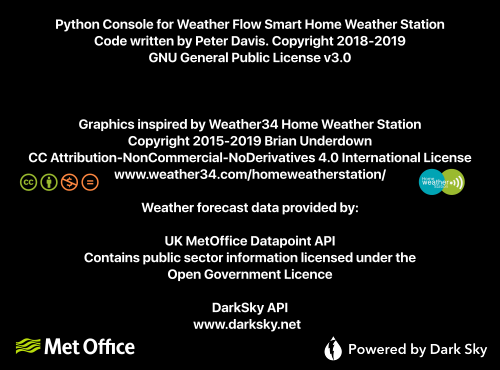
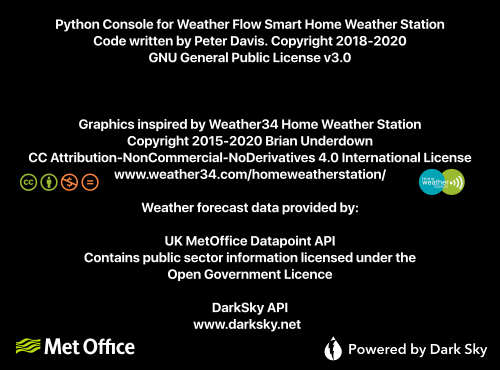
Updated copyright/license statement

Changed region(s): [[0.24, 0.3568, 0.75, 0.4162], [0.18, 0.0892, 0.81, 0.1486]]

diff --git a/lib/system.py b/lib/system.py
@@ -1,5 +1,5 @@
 """ Contains system functions required by the Raspberry Pi Python console for 
-Weather Flow Smart Home Weather Stations. Copyright (C) 2018-2019 Peter Davis
+Weather Flow Smart Home Weather Stations. Copyright (C) 2018-2020 Peter Davis
 
 This program is free software: you can redistribute it and/or modify it under
 the terms of the GNU General Public License as published by the Free Software

diff --git a/lib/websocket.py b/lib/websocket.py
@@ -1,5 +1,5 @@
 """ Handles Websocket messages recieved by the Raspberry Pi Python console for
-eather Flow Smart Home Weather Stations. Copyright (C) 2018-2019  Peter Davis
+eather Flow Smart Home Weather Stations. Copyright (C) 2018-2020  Peter Davis
 
 This program is free software: you can redistribute it and/or modify it under
 the terms of the GNU General Public License as published by the Free Software

diff --git a/lib/forecast.py b/lib/forecast.py
@@ -1,6 +1,6 @@
 """ Returns the UK MetOffice or DarkSky forecast variables required by the 
 Raspberry Pi Python console for Weather Flow Smart Home Weather Stations. 
-Copyright (C) 2018-2019 Peter Davis
+Copyright (C) 2018-2020 Peter Davis
 
 This program is free software: you can redistribute it and/or modify it under
 the terms of the GNU General Public License as published by the Free Software

diff --git a/lib/observationFormat.py b/lib/observationFormat.py
@@ -1,6 +1,6 @@
 """ Formats and sets the required units of observations displayed on the 
 Raspberry Pi Python console for Weather Flow Smart Home Weather Stations. 
-Copyright (C) 2018-2019  Peter Davis
+Copyright (C) 2018-2020  Peter Davis
 
 This program is free software: you can redistribute it and/or modify it under
 the terms of the GNU General Public License as published by the Free Software

diff --git a/lib/config.py b/lib/config.py
@@ -1,6 +1,6 @@
 """ Defines the configuration .ini files required by the Raspberry Pi Python
 console for Weather Flow Smart Home Weather Stations.
-Copyright (C) 2018-2019  Peter Davis
+Copyright (C) 2018-2020  Peter Davis
 
 This program is free software: you can redistribute it and/or modify it under
 the terms of the GNU General Public License as published by the Free Software

diff --git a/main.py b/main.py
@@ -1,5 +1,5 @@
 # WeatherFlow PiConsole: Raspberry Pi Python console for WeatherFlow Smart Home
-# Weather Station. Copyright (C) 2018-2019 Peter Davis
+# Weather Station. Copyright (C) 2018-2020 Peter Davis
 
 # This program is free software: you can redistribute it and/or modify it under
 # the terms of the GNU General Public License as published by the Free Software

diff --git a/lib/sager.py b/lib/sager.py
@@ -1,5 +1,5 @@
 """ Returns The Sager Weathercaster forecast required by the Raspberry Pi Python
-console for Weather Flow Smart Home Weather Stations. Copyright (C) 2018-2019  
+console for Weather Flow Smart Home Weather Stations. Copyright (C) 2018-2020  
 Peter Davis
 
 This program is free software: you can redistribute it and/or modify it under

diff --git a/lib/settings.py b/lib/settings.py
@@ -1,5 +1,5 @@
 """ Defines the settings screen JSON object required by the Raspberry Pi Python
-console for Weather Flow Smart Home Weather Stations. Copyright (C) 2018-2019  
+console for Weather Flow Smart Home Weather Stations. Copyright (C) 2018-2020  
 Peter Davis
 
 This program is free software: you can redistribute it and/or modify it under

diff --git a/lib/derivedVariables.py b/lib/derivedVariables.py
@@ -1,5 +1,5 @@
 """ Returns the derived weather variables required by the Raspberry Pi Python 
-console for Weather Flow Smart Home Weather Stations. Copyright (C) 2018-2019  
+console for Weather Flow Smart Home Weather Stations. Copyright (C) 2018-2020 
 Peter Davis
 
 This program is free software: you can redistribute it and/or modify it under

diff --git a/lib/requestAPI/forecast.py b/lib/requestAPI/forecast.py
@@ -1,5 +1,5 @@
 """ Returns MetOffice/DarkSky API requests required by the Raspberry Pi Python 
-console for Weather Flow Smart Home Weather Stations. Copyright (C) 2018-2019 
+console for Weather Flow Smart Home Weather Stations. Copyright (C) 2018-2020 
 Peter Davis
 
 This program is free software: you can redistribute it and/or modify it under

diff --git a/lib/astronomical.py b/lib/astronomical.py
@@ -1,5 +1,5 @@
 """ Returns the astronomical variables required by the Raspberry Pi Python 
-console for Weather Flow Smart Home Weather Stations. Copyright (C) 2018-2019  
+console for Weather Flow Smart Home Weather Stations. Copyright (C) 2018-2020  
 Peter Davis
 
 This program is free software: you can redistribute it and/or modify it under

diff --git a/lib/requestAPI/weatherflow.py b/lib/requestAPI/weatherflow.py
@@ -1,5 +1,5 @@
 """ Returns WeatherFlow API requests required by the Raspberry Pi Python console 
-for Weather Flow Smart Home Weather Stations. Copyright (C) 2018-2019 Peter 
+for Weather Flow Smart Home Weather Stations. Copyright (C) 2018-2020 Peter 
 Davis
 
 This program is free software: you can redistribute it and/or modify it under
